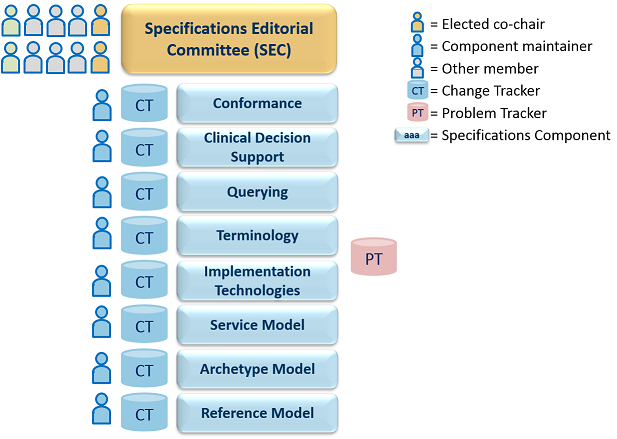
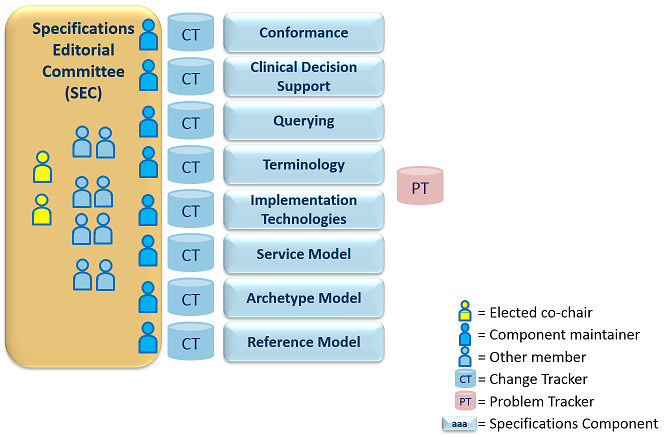
Updates to Specification Program governance based on Koray Atalag comments.

diff --git a/pages/programs/specification/changeprocess.php b/pages/programs/specification/changeprocess.php
@@ -20,7 +20,7 @@ require_once($_SERVER['DOCUMENT_ROOT'].'templates/_header.php');
 			<p class="content1"><a href="#creation">Creation of New Specification</a></p>
 				<p class="content2"><a href="#process">Process</a></p>
 				<p class="content2"><a href="#proforma">Specification Pro-forma</a></p>
-				<p class="content2"><a href="#changes">Changes to Existing Trial and Stable Specofocations</a></p>
+				<p class="content2"><a href="#changes">Changes to Existing Trial and Stable Specifications</a></p>
 			<p class="content1"><a href="#faq">Frequently Asled Questions</a></p>
 				
 			<h2><a name="introduction"></a>Introduction</h2>
@@ -84,7 +84,6 @@ require_once($_SERVER['DOCUMENT_ROOT'].'templates/_header.php');
 				<td class='TableMainC'> <em>PDF + computable</em></td>
 				<td class='TableMainC'> x.y.z </td>
 				<td class='TableMainC'> Change Requests  </td>
-				<td class='TableMainC'> <em><b>CMG</em> </td>
 				<td class='TableMainC'> Problem Reports </td>
 			</tr>
 			<tr>
@@ -140,17 +139,17 @@ require_once($_SERVER['DOCUMENT_ROOT'].'templates/_header.php');
 			</tbody>
 			</table>
 
-			<p>Problem Reports (PRs) can be raised by anyone, and are designed to capture reports of problems and issues, including new requirements. Change Requests (CRs) can be created only by the Specifications group, and are used to document changes undertaken to the specifications. No change can be made to the specifications without a CR.</p>
+			<p>Problem Reports (PRs) can be raised by anyone, and are designed to capture reports of problems and issues, including new requirements. Change Requests (CRs) can be created only by the Specifications Editorial Committee, and are used to document changes undertaken to the specifications. No change can be made to the specifications without a CR.</p>
 
 			<h3><a name="promotion"></a>Promotion of Specifications throught the Lifecycle</h3>
 			<p>Specifications are promoted to the next lifecycle state when the appropriate time-limit is reached for the current state. A review is held by the SEC 3 months prior to the putative promotion date to determine if the criteria documented above are satisfied. If so, a CR is raised to document the promotion of the artefact(s) on the relevant date, including all changes to documentation, publishing format and actual publication.</p>
-			<p>If the criteria are not met, the owning CMG is asked to ensure that the specification is worked on to ensure that it will meet the promotion criteria. This may require them communicating with teams in the Software Program or elsewhere in order to ensure adequate implementation has been achieved.</p>
-			<p>If on the due date of promotion, the promotion criteria are still not met, the owning CMG is asked to provide a report indicating if it is likely that the conditions can be met in 3 months or less, and outlining what steps will be taken to achieve them. The SEC may accept this and provide a 3 month extension. Alternatively it may reject it, and the specification is then demoted to 'obsolete' state.</p>
+			<p>If the criteria are not met, the Component Maintainer is asked to ensure that the specification is worked on to ensure that it will meet the promotion criteria. This may require them communicating with teams in the Software Program or elsewhere in order to ensure adequate implementation has been achieved.</p>
+			<p>If on the due date of promotion, the promotion criteria are still not met, the Component Maintainer is asked to provide a report indicating if it is likely that the conditions can be met in 3 months or less, and outlining what steps will be taken to achieve them. The SEC may accept this and provide a 3 month extension. Alternatively it may reject it, and the specification is then demoted to 'obsolete' state.</p>
 			<p>After one extension period, the SEC again reviews the specfication, and either accepts it for promotion or rejects it, leading to demotion to 'obsolete' state.</p>
 			
 
 			<h2><a name="changemanagement"></a>Change Management</h2>
-			<p>Seen as a whole, the specification library will normally have a  number of Problem Reports (PRs) and Change Requests (CRs) outstanding against it.The processing of PRs and the creation, acceptance and final approval or rejection of CRs is performed by the Specifications Editorial Committee, formed of representatives from all CMGs.</p>
+			<p>Seen as a whole, the specification library will normally have a  number of Problem Reports (PRs) and Change Requests (CRs) outstanding against it.The processing of PRs and the creation, acceptance and final approval or rejection of CRs is performed by the Specifications Editorial Committee.</p>
 			
 			<h3><a name="problemreports"></a>Problem Reports</h3>
 			<p>PRs raised on the <a href="https://openehr.atlassian.net/browse/SPECPR/">public SPECPR tracker</a> are reviewed on a regular basis by the SEC, and where appropriate,  CRs raised. PR review is carried out online by the SEC either when a new PR is raised, or at least every 3 months.</p>
@@ -182,10 +181,10 @@ require_once($_SERVER['DOCUMENT_ROOT'].'templates/_header.php');
 			<ul>
 				<li>planned date of completion;</li>
 				<li>estimated  of number of days' work;</li>
-				<li>assignment of a member from the relevant CMG who acts as the Change  Owner (CO) (who becomes an 'assignee' on the CR). The CO's  responsibility is to manage the CR to completion (which  occasionally  will be an obsolete state) - essentially this means  ensuring the  process is followed and the actual work is done on time;</li>
+				<li>assignment of an SEC member by the relevant Component Maintainer, who acts as the Change  Owner (CO) (who becomes an 'assignee' on the CR). The CO's  responsibility is to manage the CR to completion (which  occasionally  will be an obsolete state) - essentially this means  ensuring the  process is followed and the actual work is done on time;</li>
 				<li>classification as minor, major, critical, reflecting the size of change and impact to users.</li>
 			</ul>
-			<p>The Change Owner is now responsible for obtaining the following information from the CMG:</p>
+			<p>The Change Owner is now responsible for obtaining the following information from the SEC:</p>
 			<ul>
 				<li>impact assessment;</li>
 				<li>detailed description of proposed changes;</li>
@@ -193,7 +192,7 @@ require_once($_SERVER['DOCUMENT_ROOT'].'templates/_header.php');
 			</ul>
 			<p>The SEC reviews the CR again. If the impact is deemed acceptable, the CR is allocated to a release.</p>
 			<ul>
-				<li>for larger CRs, the addition of more assignees from the CMG may be required. The CO manages this.</li>
+				<li>for larger CRs, the addition of more assignees from the SEC may be required. The CO manages this.</li>
 			</ul>
 
 			<h4>Performing the work</h4>
@@ -205,7 +204,7 @@ require_once($_SERVER['DOCUMENT_ROOT'].'templates/_header.php');
 			<ul>
 				<li>for <em>minor changes</em>, the changes are reviewed by inspection of  the relevant document(s) and/or inspection of the changed computable  artefact in a relevant tool.
 				<ul>
-					<li>Approval requires the unanimous vote of the CMG members.
+					<li>Approval requires review by the Component Maintainer.
 					<ul>
 						<li>If passed, the change is committed to the specification library.</li>
 						<li>If not, the assignee has one week to re-present the change, when it will re-enter review.</li>
@@ -284,7 +283,7 @@ require_once($_SERVER['DOCUMENT_ROOT'].'templates/_header.php');
 			</ul>
 
 			<h3><a name="changes"></a>Changes to Existing Trial and Stable Specifications</h3>
-			<p><em>Minor changes</em> to specification documents are normally executed by a CMG member making an agreed small change. Validation is performed by internal review, as described above under CR Lifecycle.</p>
+			<p><em>Minor changes</em> to specification documents are normally executed by the Component Maintainer making an agreed small change. Validation is performed by internal review, as described above under CR Lifecycle.</p>
 			<p><em>Major changes</em>, typically leading to a new major release of a specification, may be performed by a team, although they can just as easily be performed by a single person. Validation is performed via community-wide open review with a published time limit. Review feedback is posted as comments on the CR. See the Acceptance section above under CR lifecycle.</p>
 
 			

diff --git a/pages/programs/specification/governance.php b/pages/programs/specification/governance.php
@@ -22,6 +22,7 @@ require_once($_SERVER['DOCUMENT_ROOT'].'templates/_header.php');
 					<li>Decision-making is normally based on consensus, with wider consultation and then formal voting used when no agreement is available.</li>
 				</ul>		
 			<p>The governance provisions here are intended to be as lightweight and transparent as possible, with progress depending primarily on a) the experience and goodwill of the members, and b) on high quality tool support for efficient e-working.</p>
+			<p>The Specifications Program will work closely with the other programs to ensure coherence with outputs of the Clinical Modelling Program, implementability for the Software program, and usability in terms of the Localisation Program.</p>
 			<p>The following diagram illustrates the Specifications Program.</p>
 			<p style="text-align:center;"><img src="/files/programs/specification/SpecProgStr.png" alt="Specification Program Structure" style="border: solid 1px #CCCCCC;"></p>
 			
@@ -112,7 +113,7 @@ require_once($_SERVER['DOCUMENT_ROOT'].'templates/_header.php');
 					<li>Members leave by natural attrition (i.e. resignation).</li>
 				</ul>
 			<p>Maximum membership is limited to 40.</p>
-			<p>The SEC current membership will be openly posted oneline at all times.</p>
+			<p>The SEC current membership will be openly posted online at all times.</p>
 
 			<h3><a name="qualifyingcriteria"></a>Qualifying Criteria</h3>
 			<p>Membership of the SEC is by nomination. New nominations may be made in the following situations:</p>
